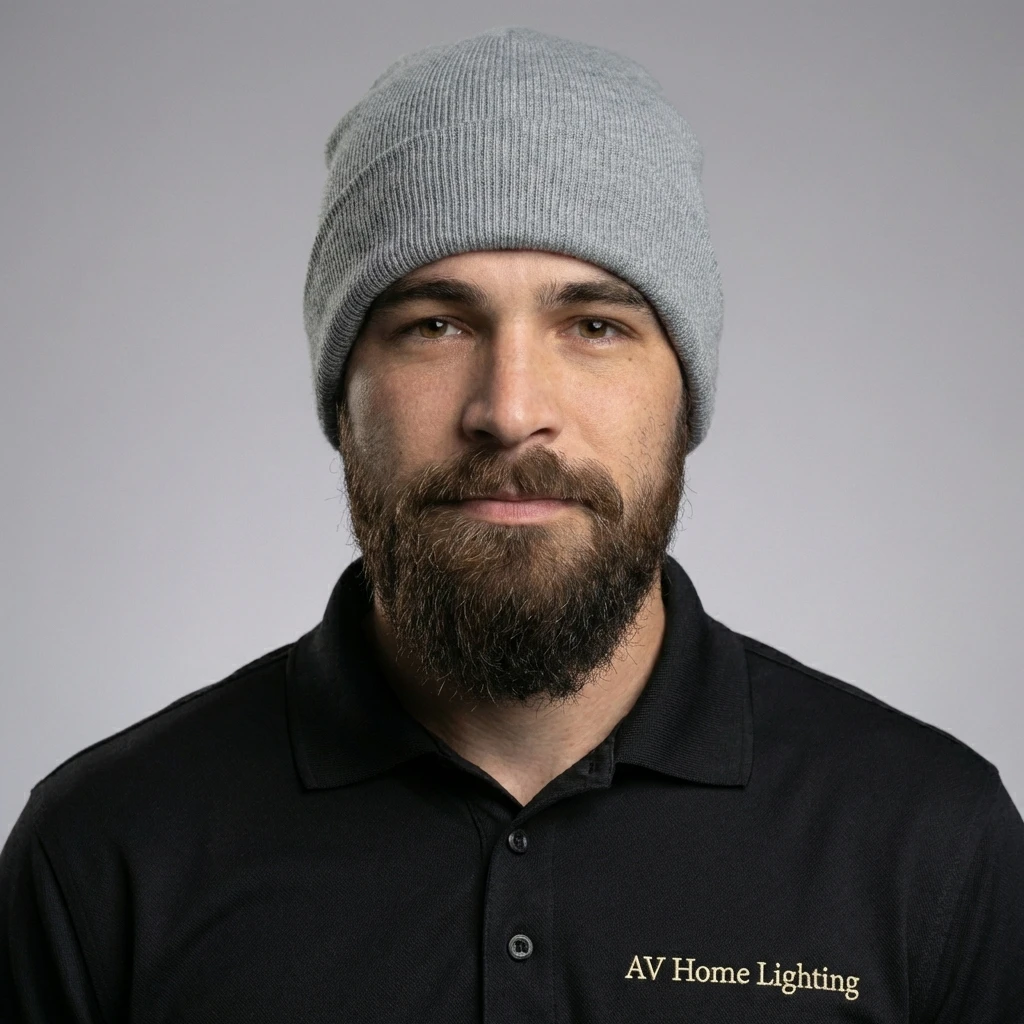
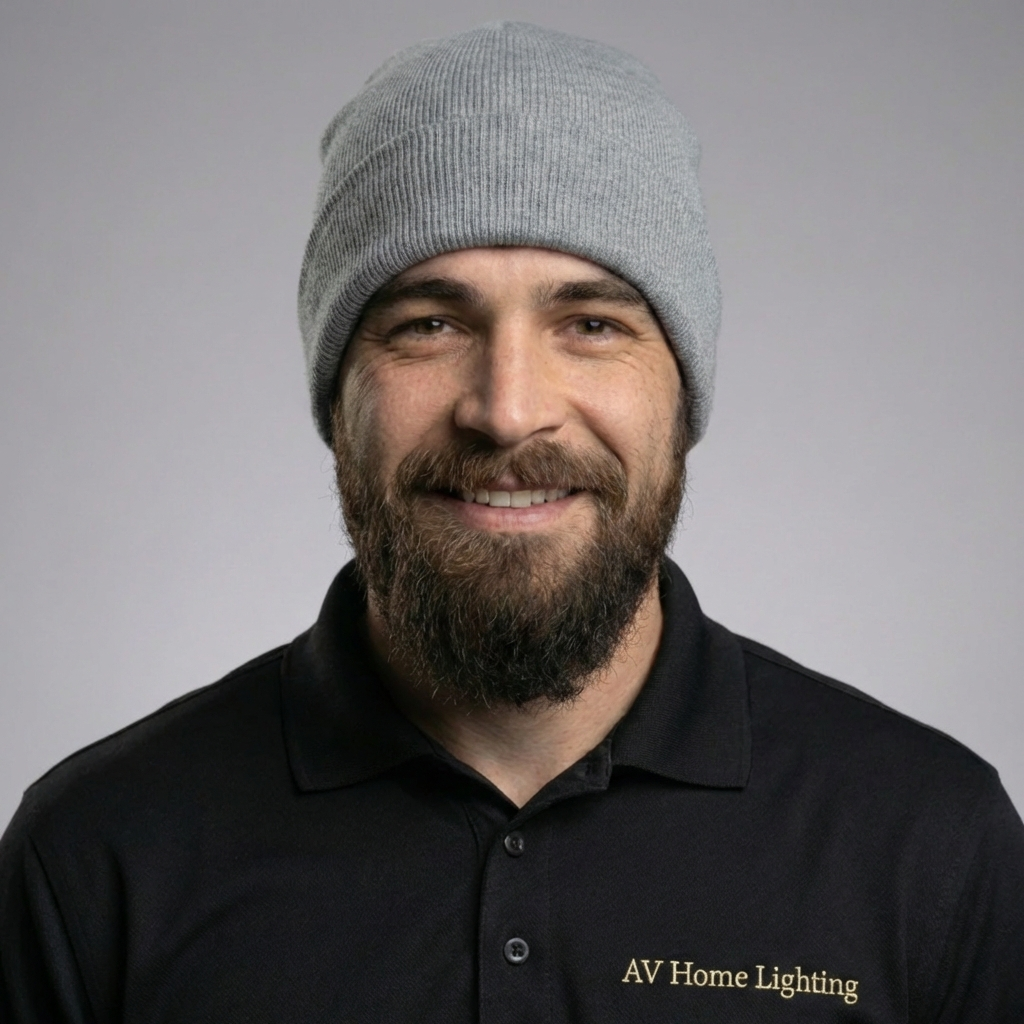
Fix mobile hamburger menu and update Andrew's photo to smiling version

diff --git a/css/styles.css b/css/styles.css
@@ -208,7 +208,7 @@ nav a.active {
     }
 
     /* Mobile Navigation Menu */
-    nav {
+    .nav-menu {
         position: absolute;
         top: 100%;
         left: 0;
@@ -222,18 +222,18 @@ nav a.active {
         z-index: 999;
     }
 
-    nav.active {
+    .nav-menu.active {
         transform: translateY(0);
         /* Slide down */
     }
 
-    nav ul {
+    .nav-menu ul {
         flex-direction: column;
         gap: 20px;
         text-align: center;
     }
 
-    nav a {
+    .nav-menu a {
         display: block;
         font-size: 1.1rem;
         padding: 10px;

diff --git a/index.html b/index.html
@@ -230,7 +230,7 @@
         <div class="av-palmdale-tech-grid">
             <!-- IMAGE -->
             <div class="av-palmdale-tech-photo">
-                <img src="/images/av-home-lighting-logo.webp" alt="Andrew, manager at AV Home Lighting">
+                <img src="/images/andrew-manager.webp" alt="Andrew, manager at AV Home Lighting">
             </div>
 
             <!-- TEXT -->
